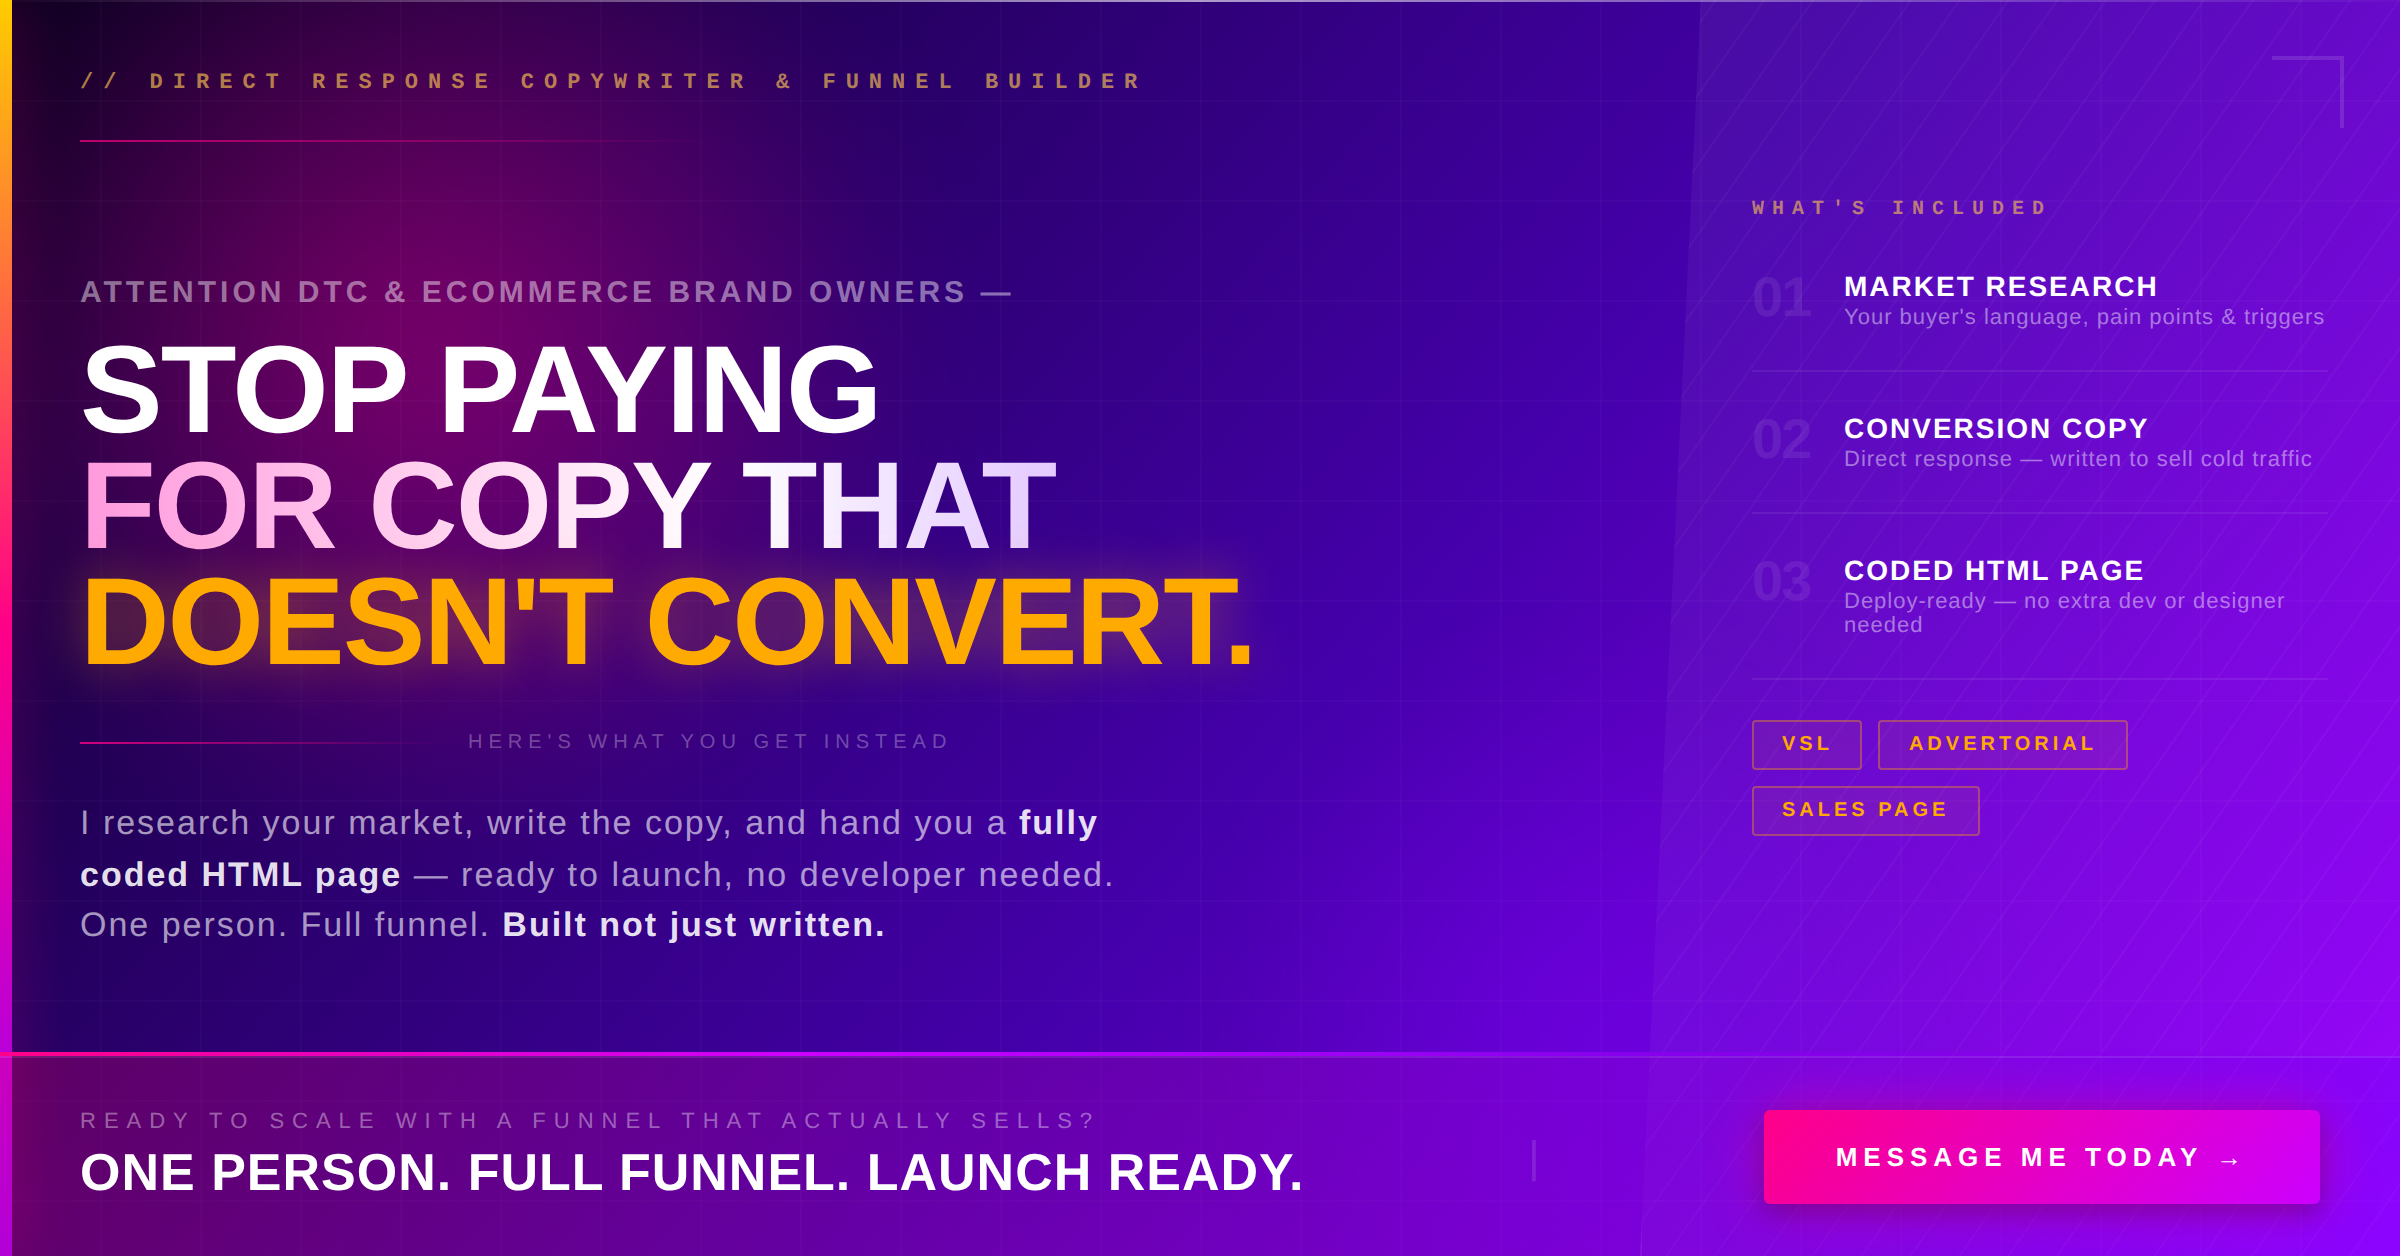
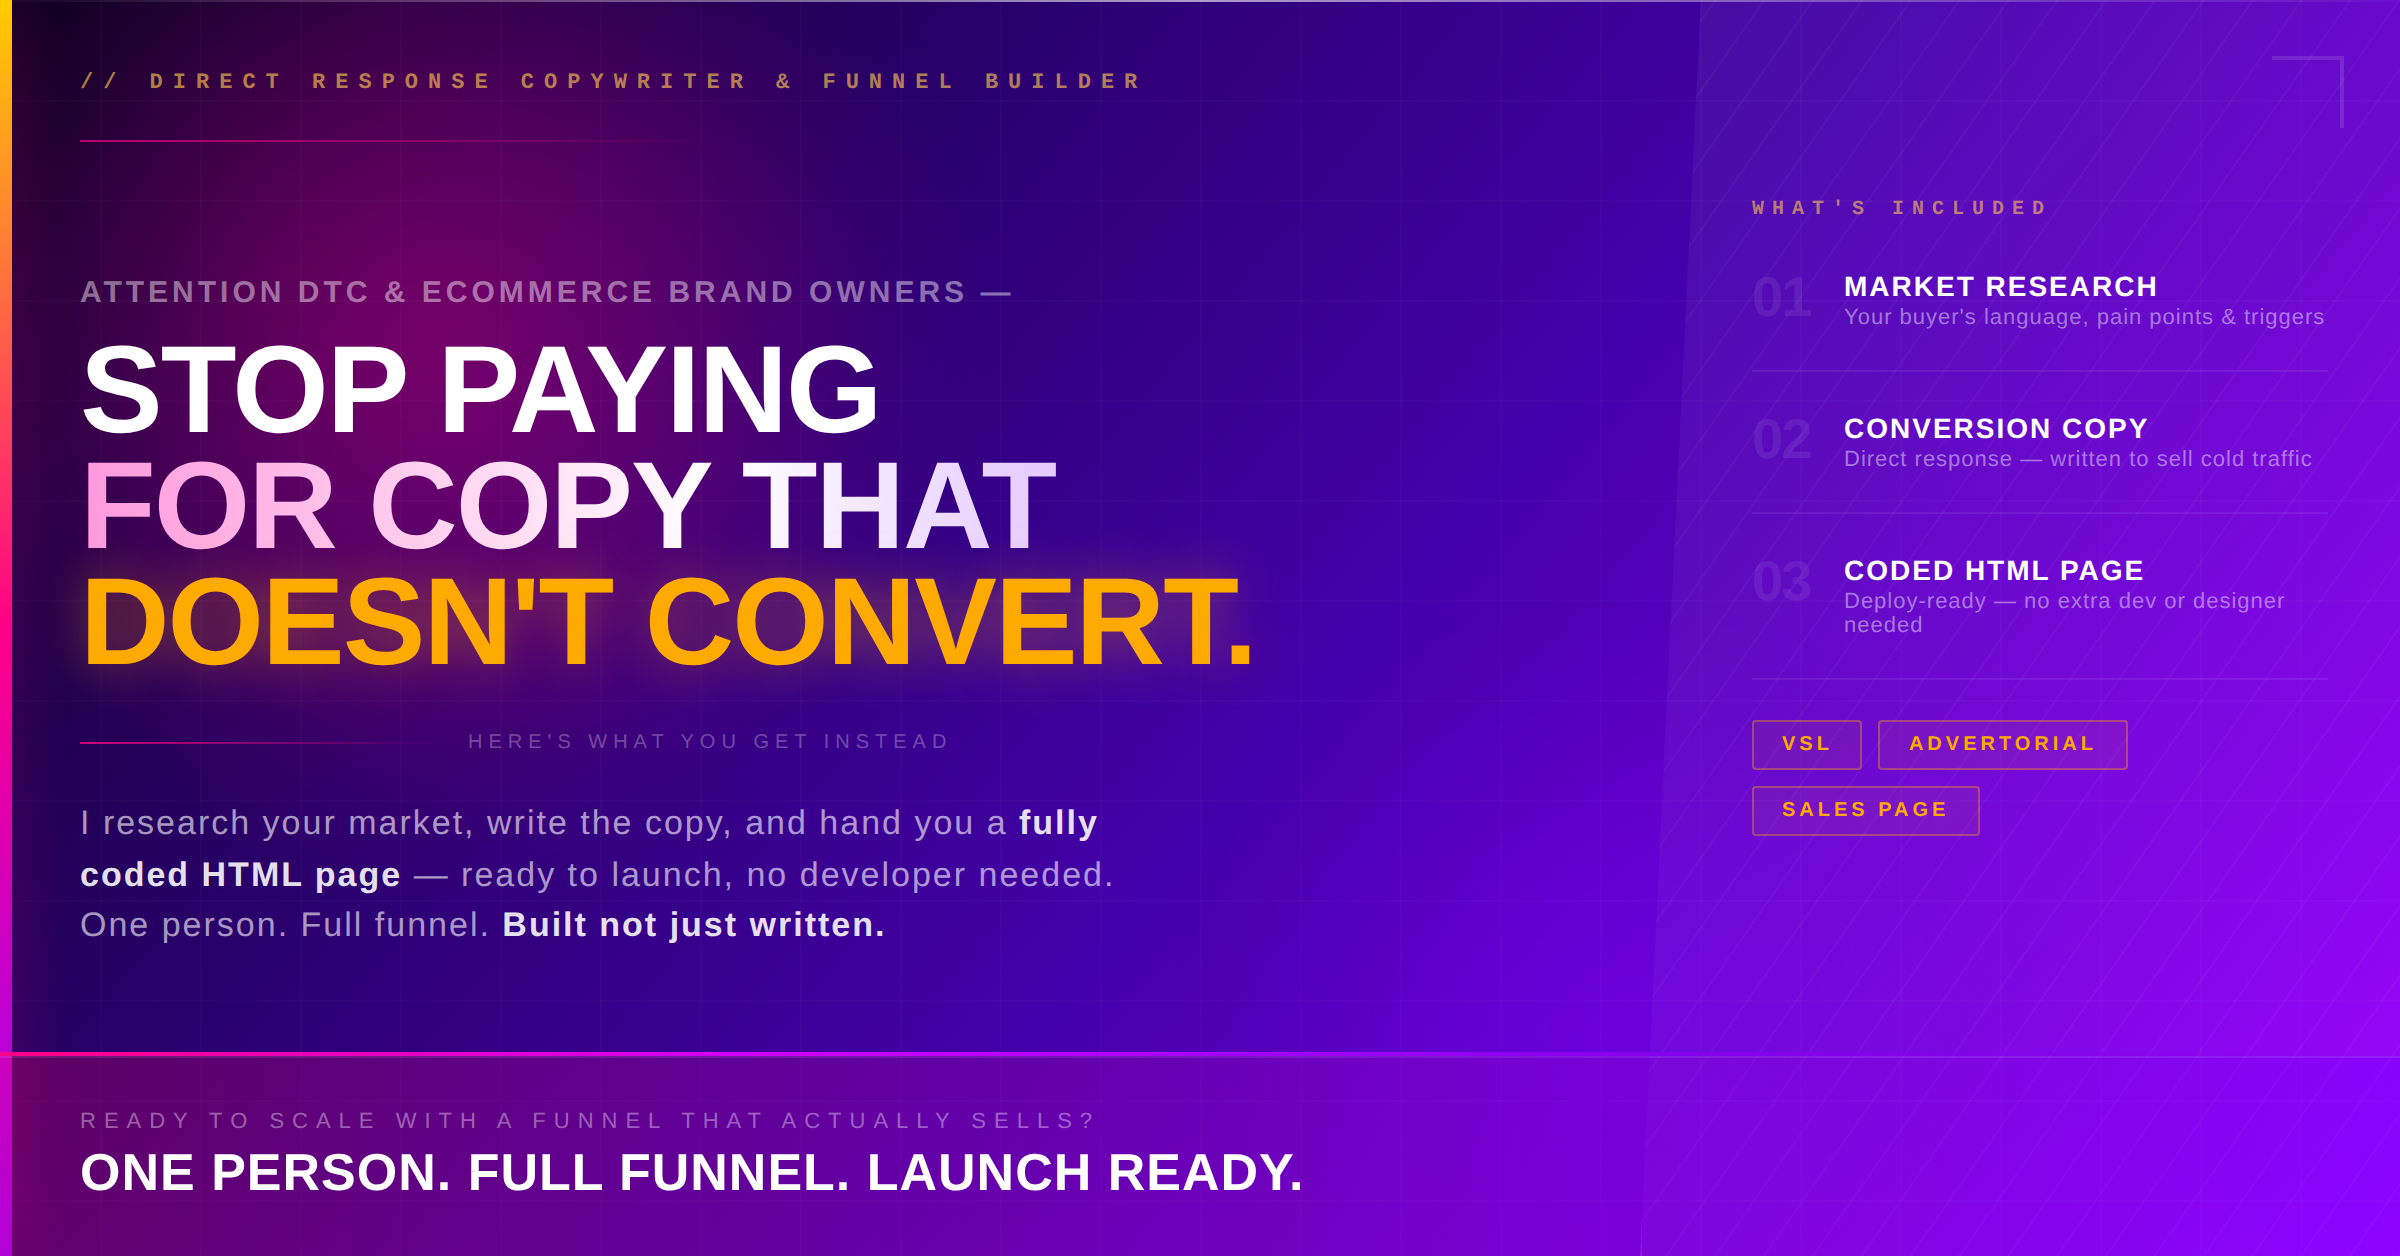
Remove CTA button from landscape ad and regenerate PNG
Removed the "Message Me Today" button and divider from the bottom
CTA bar of ad-landscape.html, keeping only the tagline text.
Regenerated ad-landscape-hq.png at 2x retina resolution.

Claude-Session: https://claude.ai/code/session_01HWFnKCVbGBkEDtH6BW3y2N

Changed region(s): [[0.7188, 0.8694, 1.0, 0.9936]]

diff --git a/facebook-banners/ad-landscape.html b/facebook-banners/ad-landscape.html
@@ -369,8 +369,6 @@
       <div class="cta-small">Ready to scale with a funnel that actually sells?</div>
       <div class="cta-big">One Person. Full Funnel. Launch Ready.</div>
     </div>
-    <div class="cta-divider">|</div>
-    <div class="cta-btn">Message Me Today →</div>
   </div>
 </div>
 </body>
